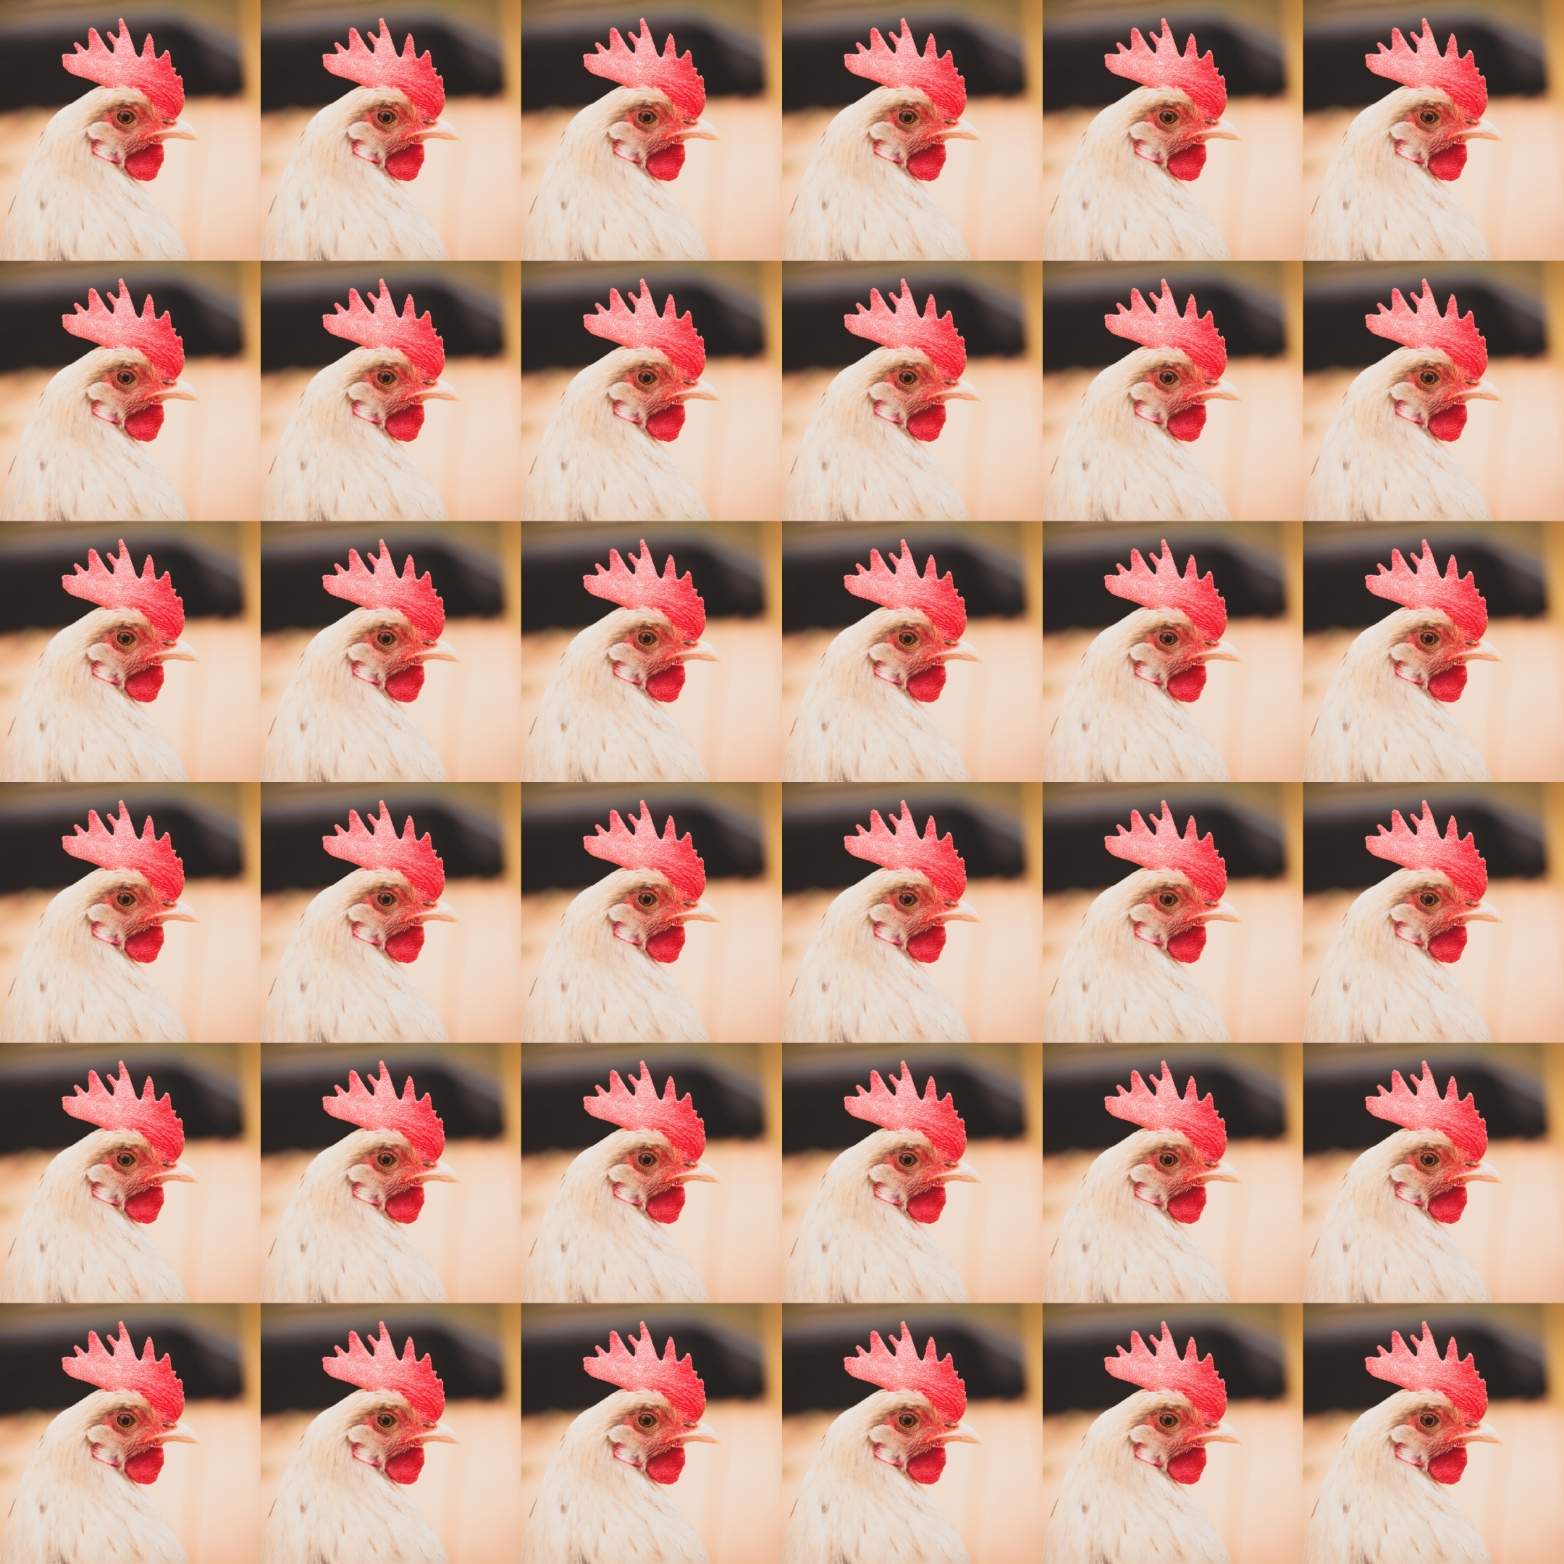
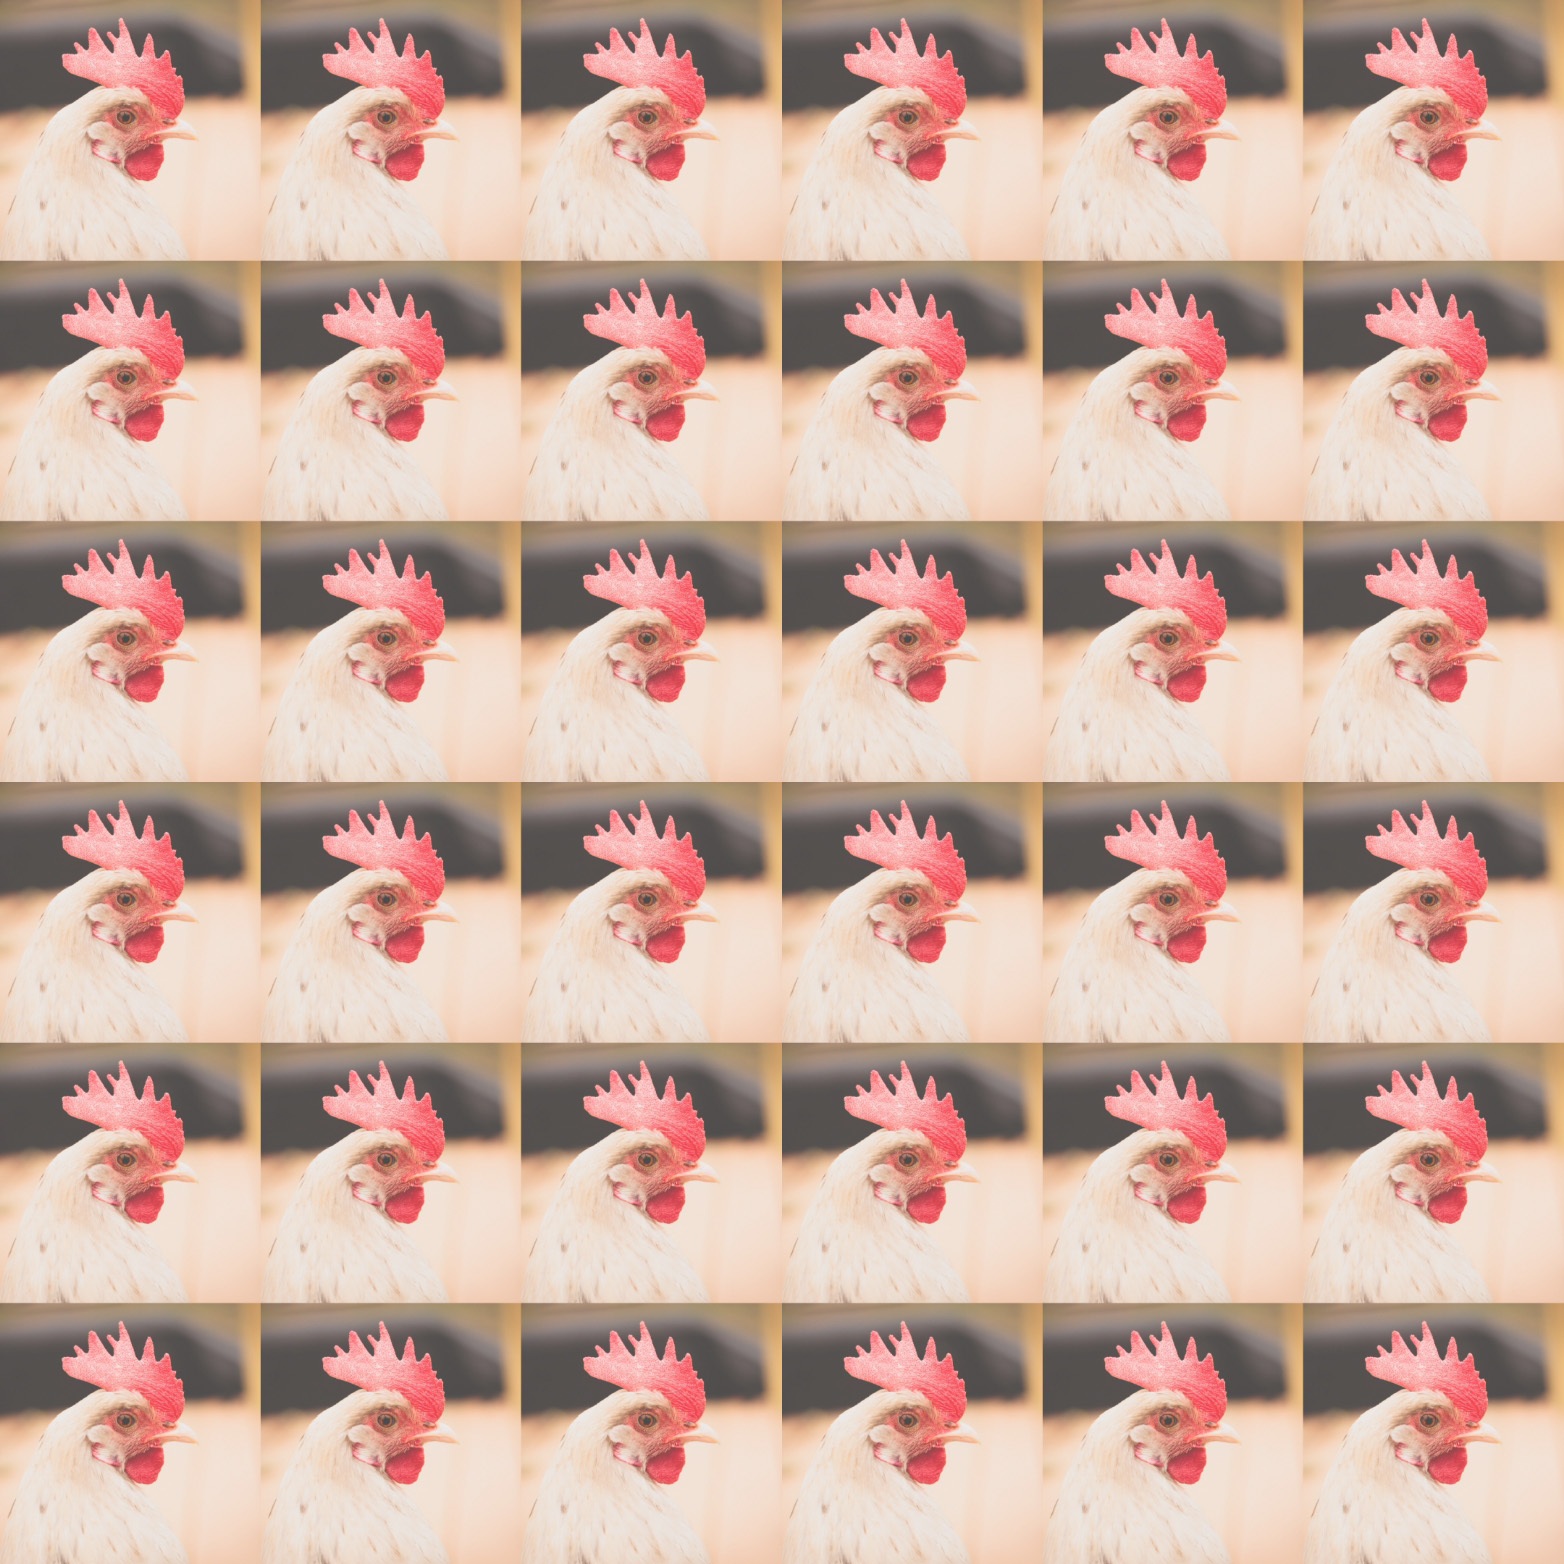
Styling update and code cleanup

diff --git a/styles.css b/styles.css
@@ -1,7 +1,7 @@
 /*
 Author: Cassie Lewis
 https://clewisdev.com
-Date: 
+Date: January 2023 
 */
 
 /*
@@ -18,7 +18,7 @@ https://coolors.co/2b2624-3b312f-e53e45-e57269-98734c
     --raisin-black: #2b2624ff;
     --black-coffee: #3b312fff;
     --imperial-red: #e53e45ff;
-    --terra-cotta: #e57269ff;
+    --blue: #12304d;
     --liver-chestnut: #98734cff;
     
     /*BORDER RADIUS*/
@@ -45,12 +45,12 @@ https://coolors.co/2b2624-3b312f-e53e45-e57269-98734c
 
 body {
     height: 100vh;
-    background: linear-gradient(hsla(357, 76%, 57%, .3), hsla(10, 11%, 21%, .9)),  url("jigglesgrid.jpg");
+    background-image: url("jigglesgrid.jpg"); 
     background-size: cover;
     font-family: Verdana, Geneva, Tahoma, sans-serif;
     font-weight: bold;
     text-align: center;
-    margin: 4rem 1rem;
+    margin: 4rem 2rem;
    
 }
 
@@ -58,7 +58,7 @@ h1 {
     color: var(--raisin-black);
     text-transform: uppercase;
     margin-top: .75rem;
-    margin-bottom: .75rem;
+    margin-bottom: 1rem;
 }
 
 h2 {
@@ -72,10 +72,12 @@ h2 {
 
 .wrapper {
     max-width: 800px;
-    background-color: hsl(0, 0%, 100%, .8);
+    background-color: hsl(0, 0%, 100%, 0.8);
     padding: 2rem 2rem 4rem 2rem;
     margin: 0 auto;
     border-radius: 1rem;
+    border: 8px solid var(--blue);
+    box-shadow: 0 1rem .5rem .5rem var(--raisin-black);
 }
 
 

diff --git a/index.html b/index.html
@@ -5,7 +5,7 @@
     <meta http-equiv="X-UA-Compatible" content="IE=edge">
     <meta name="viewport" content="width=device-width, initial-scale=1.0">
     
-    <title>Visit Athens, Ohio</title>
+    <title>The Incredible Egg Counter 🥚</title>
 
         <link rel="preconnect" href="https://fonts.googleapis.com">
         <link rel="preconnect" href="https://fonts.gstatic.com" crossorigin>
@@ -17,7 +17,7 @@
 <!-- 
     Author: Cassie Lewis
     https://clewisdev.com
-    Date: January 2022
+    Date: January 2023
  -->
 
  <body>

diff --git a/index.js b/index.js
@@ -12,5 +12,6 @@ function save() {
     saveEl.textContent += countStr
     count = 0;
     countEl.textContent = 0;
+    
 }
 
